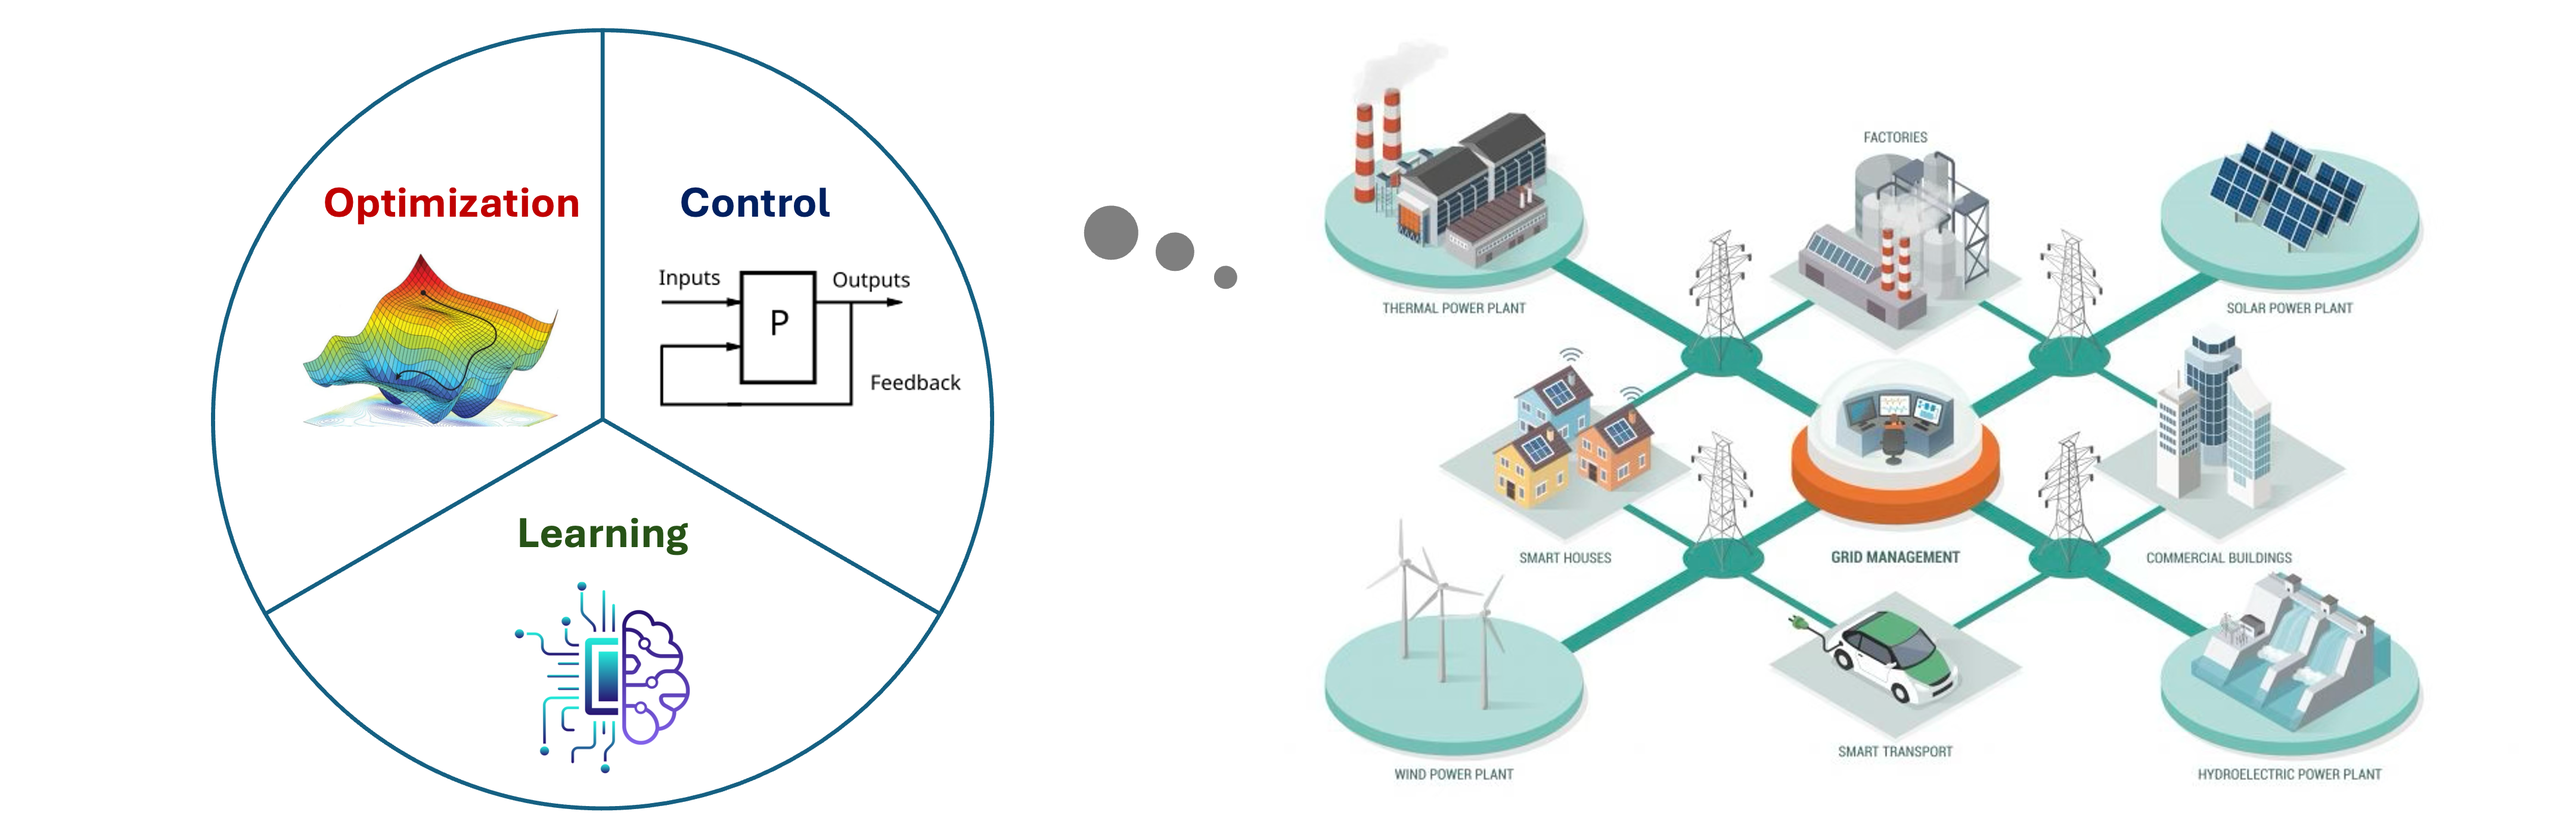
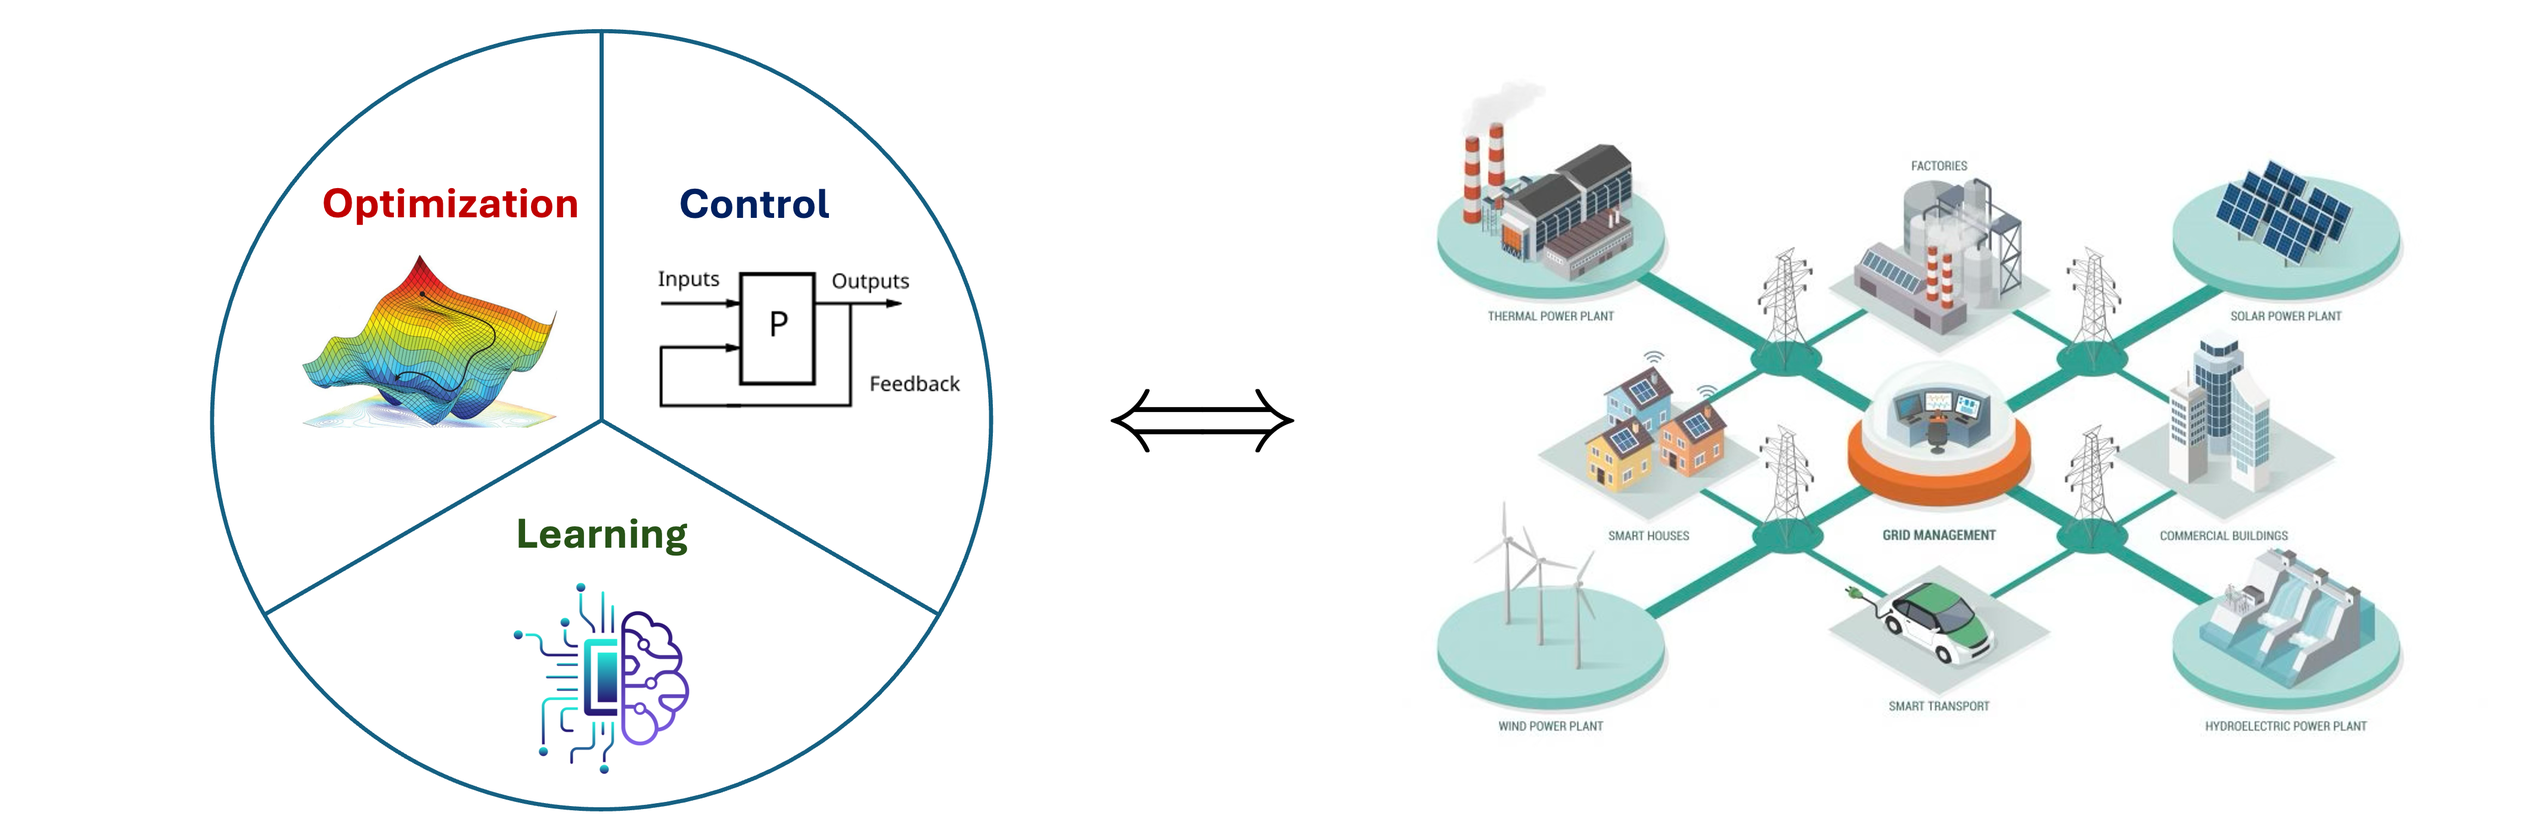
Dec 2025

diff --git a/index.html b/index.html
@@ -7,6 +7,7 @@
 <link rel="stylesheet" href="jemdoc.css" type="text/css" />
 <title>Zhenyi Yuan - Homepage
 </title>
+<link rel="shortcut icon" href="ucsd_seal.png" >
 <!-- MathJax -->
 <script type="text/javascript" async src="https://cdnjs.cloudflare.com/ajax/libs/mathjax/2.7.1/MathJax.js?config=TeX-MML-AM_CHTML">
 </script>
@@ -63,7 +64,7 @@ Shatin, New Territories, Hong Kong  <br/>
 <img src="CUHK.png" alt="alt text" height="45px" /> 
 -->
 
-Email: <font face="courier">z7yuan[at]ucsd.edu; zhenyiyuan[at]cuhk.edu.hk</font> <br />
+Email: <font face="courier">zyiyuan[at]ie.cuhk.edu.hk</font> <br />
 Office: <I>Remote currently, find me via email!</I>
 <br/>
 [<a href="https://scholar.google.com/citations?user=M7i0_74AAAAJ&hl=en" target=&ldquo;blank&rdquo;>Google Scholar</a>] [<a href="https://www.researchgate.net/profile/Zhenyi-Yuan" target=&ldquo;blank&rdquo;>ResearchGate</a>] [<a href="CV.pdf" target=&ldquo;blank&rdquo;>Curriculum&nbsp;Vitae</a>]
@@ -78,7 +79,7 @@ I earned the Ph.D. degree in Engineering Sciences (Mechanical Engineering) from 
 <!--
 <a href="https://yyshi.eng.ucsd.edu/" target=&ldquo;blank&rdquo;>Prof. Yuanyuan Shi</a> (UCSD), <a href="https://research-hub.nrel.gov/en/persons/guido-cavraro" target=&ldquo;blank&rdquo;> Dr. Guido Cavraro</a> (NREL), and <a href="https://www.ie.cuhk.edu.hk/faculty/zhao-changhong/" target=&ldquo;blank&rdquo;>Prof. Changhong Zhao</a> (CUHK). 
 -->
-Prior to Ph.D., I was enrolled in the successive undergraduate and postgraduate program at the Honors School of Harbin Institute of Technology, where I received the B.S. (w/ honors) and M.S. degrees in Control Science and Engineering under the supervision of <a href="https://homepage.hit.edu.cn/wuligang" target=&ldquo;blank&rdquo;>Prof. Ligang Wu</a>. 
+Prior to Ph.D., I studied at the Honors School of HIT, where I received the B.S. (w/ honors) and M.S. degrees in Control Science and Engineering under the supervision of <a href="https://homepage.hit.edu.cn/wuligang" target=&ldquo;blank&rdquo;>Prof. Ligang Wu</a>. 
 </p>
 
 <h2>Recent Updates/Upcoming Events
@@ -112,7 +113,7 @@ Prior to Ph.D., I was enrolled in the successive undergraduate and postgraduate 
 </h2>
 <p><b>Control</b>, <b>Optimization</b> and <b>Machine Learning</b>, as well as their applications to <b>Electric Power Systems</b>.
 <p></p>
-<img src="Research_Interests.png" alt="alt text" height="210px" />
+<img src="Research_Interests.png" alt="alt text" height="260px" />
 
 <h2> Recent Publications
 </h2>
@@ -211,10 +212,10 @@ Z. Sun#, <u>Z. Yuan</u>#, C. Zhao, and J. Cortés, “<strong>Learning decentral
 <p>Reviewer for Journals & Conferences
 </p>
 <ul>
-<li><p style="text-align:justify; text-justify:inter-ideograph;">IEEE Transactions on Automatic Control; IEEE Transactions on Control of Network Systems; IEEE Transactions on Power Systems; IEEE Transactions on Network Science and Engineering; IEEE Open Journal of Control Systems; IEEE Control Systems Letters; IEEE Robotics and Automation Letters; Systems & Control Letters; International Journal of Robust and Nonlinear Control; Electric Power Systems Research, etc.
+<li><p style="text-align:justify; text-justify:inter-ideograph;">IEEE Transactions on Automatic Control; IEEE Transactions on Control of Network Systems; IEEE Transactions on Power Systems; IEEE Transactions on Network Science and Engineering; IEEE Transactions on Sustainable Energy; IEEE Open Journal of Control Systems; IEEE Control Systems Letters; IEEE Robotics and Automation Letters; Systems & Control Letters ...
 </p>
 </li>
-<li><p style="text-align:justify; text-justify:inter-ideograph;">IEEE Conference on Decision and Control (CDC); American Control Conference (ACC); IEEE Conference on Control Technology and Applications (CCTA); Power Systems Computation Conference (PSCC); Learning for Dynamics & Control Conference (L4DC), etc.
+<li><p style="text-align:justify; text-justify:inter-ideograph;">IEEE Conference on Decision and Control (CDC); American Control Conference (ACC); IEEE Conference on Control Technology and Applications (CCTA); Power Systems Computation Conference (PSCC); Learning for Dynamics & Control Conference (L4DC)...
 </p>
 </li>
 </ul>
